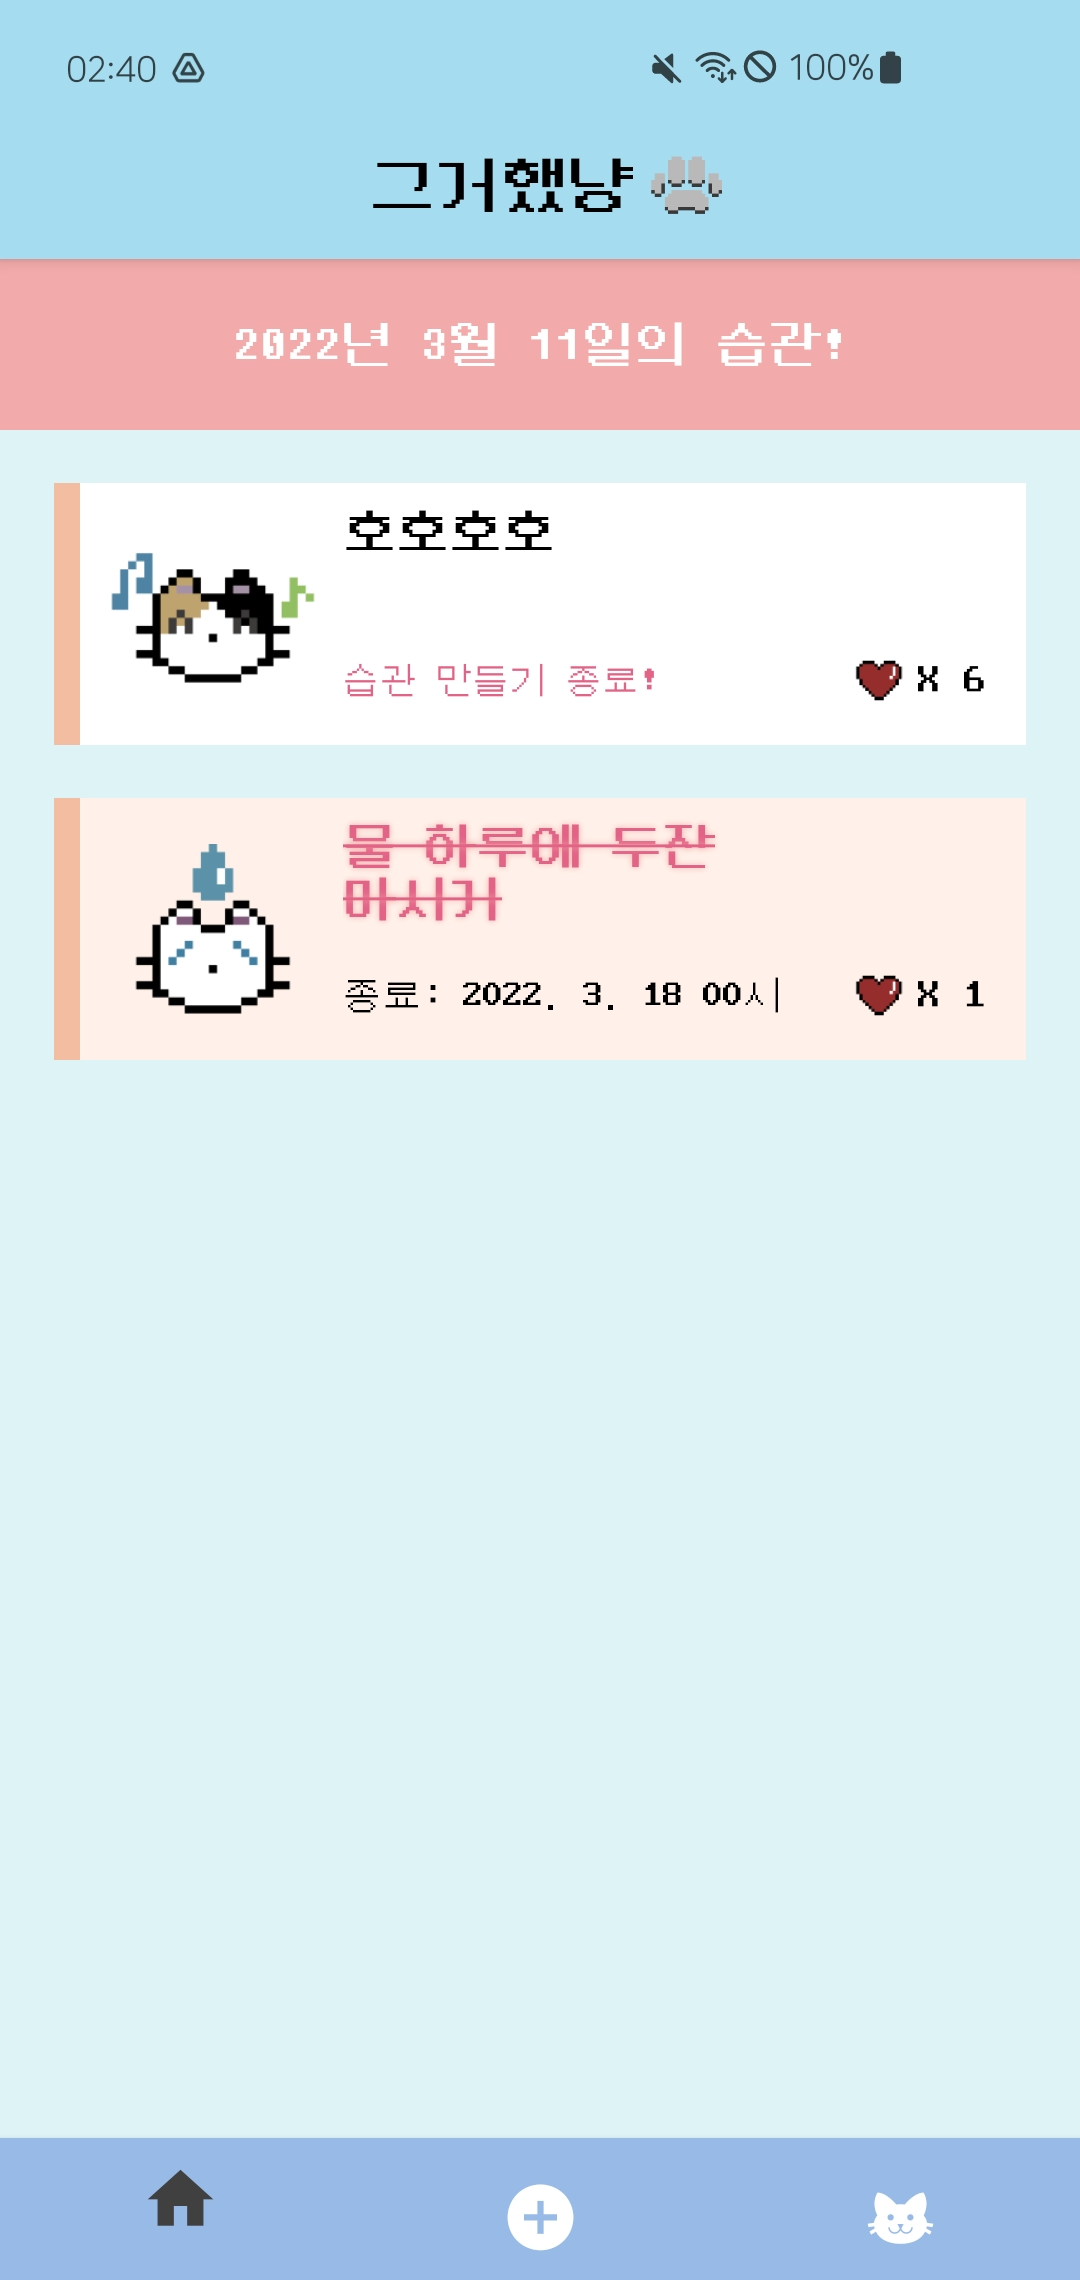
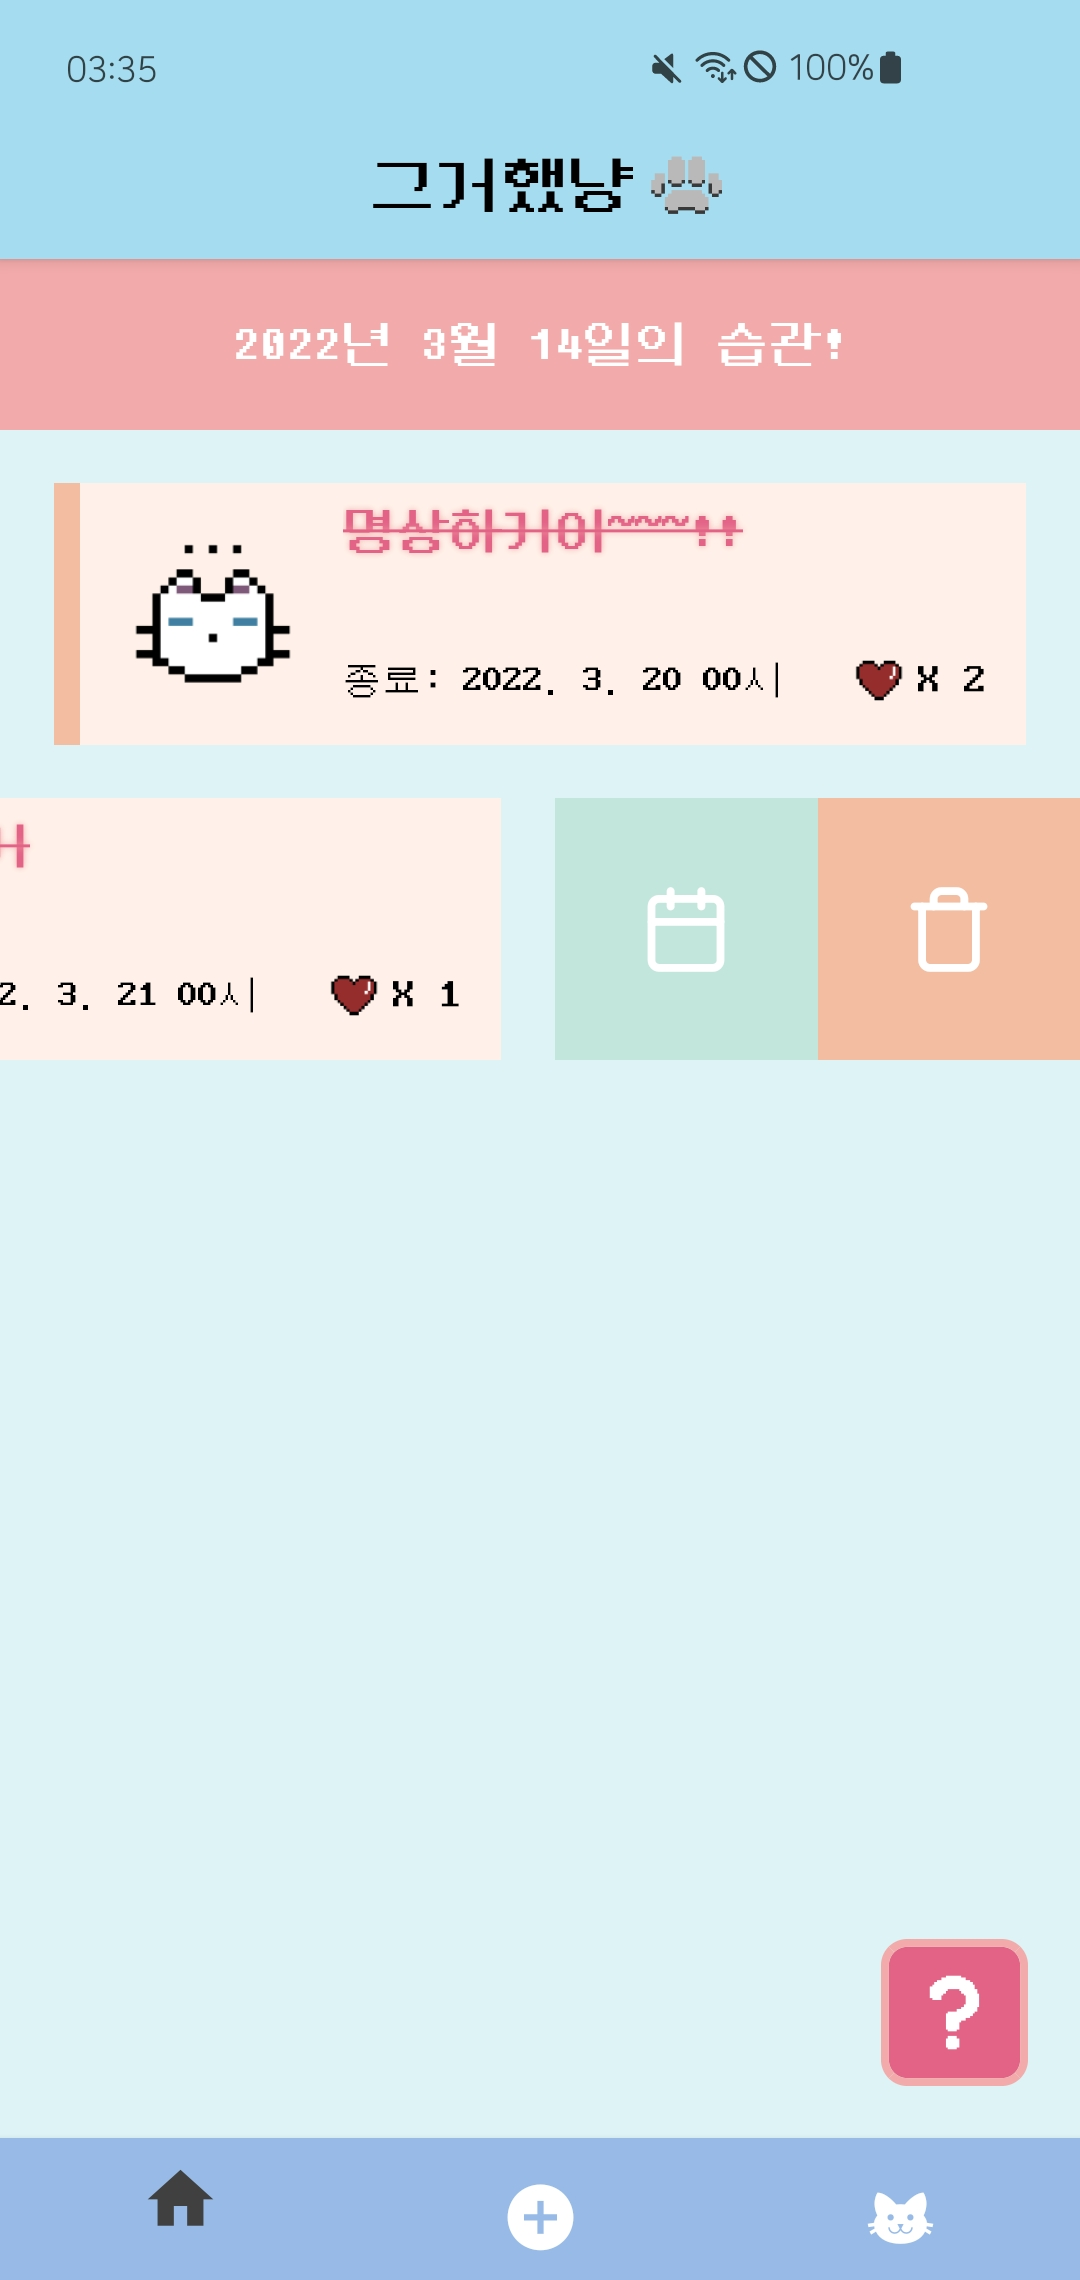
chore: update README.md file

diff --git a/README.md b/README.md
@@ -1,43 +1,38 @@
 # **🐱 그거했냥**
 
-<img src="./readme.asset/thumb.png" width="500px" alt="thumb" />
-<br>
-<br>
+<p align="center">
+<img src="./readme.asset/thumb.png" width="600px" alt="thumb" />
+</p>
+
 마음속으로만 생각한 습관을 1주일만이라도 지켜낸다면 이미 이 습관은 당신의 것!<br>
 "그거했냥?"으로 습관 만들기를 시작해보세요!
-
-<br>
 <br>
 <br>
 
 # **📱 목차**
-
-### 1. [사용 영상](#📽-사용-영상)
-### 2. [동기](#💡-동기)
-### 3. [프로젝트 기간](#🗓-프로젝트-기간)
-### 4. [프로젝트 기간 동안의 고민 일기](#🌤-프로젝트-기간동안의-고민-일기)
-### 5. [기술 스택](#🔨-기술-스택)
-### 6. [실행 방법](#📝-실행-방법)
-### 7. [환경변수 설정 부분](#🔐-환경변수-설정-부분)
-### 8. [기능](#🔬-기능)
-### 9. [기술스택 사용 소감](#🗂-기술스택-사용-소감)
-### 10. [소감](#🎤-소감)
-
-<br>
+1. [사용 영상](#-사용-영상)
+2. [동기](#-동기)
+3. [프로젝트 기간](#-프로젝트-기간)
+4. [프로젝트 기간 동안의 고민 일기](#-프로젝트-기간동안의-고민-일기)
+5. [기술 스택](#-기술-스택)
+6. [실행 방법](#-실행-방법)
+7. [환경변수 설정 부분](#-환경변수-설정-부분)
+8. [기능](#-기능)
+9. [기술스택 사용 소감](#-기술스택-사용-소감)
+10. [소감](#-소감)
 <br>
 <br>
 
 # **📽 사용 영상**
 
-[apk 파일 다운로드](https://exp-shell-app-assets.s3.us-west-1.amazonaws.com/android/%40jisoook/didyoudothat-f223a85abd5d4e269f3a7fb4ec6fa0e3-signed.apk)
-<br>
+[apk 파일 다운로드](https://exp-shell-app-assets.s3.us-west-1.amazonaws.com/android/%40jisoook/didyoudothat-5a151e98f3b04022bd12d638c0ff5fda-signed.apk)
 <br>
 
+<p>
 <img src="./readme.asset/play1.gif" width="200px" alt="play1" />
 <img src="./readme.asset/play2.gif" width="200px" alt="play2" />
+</p>
 
-
-<br>
 <br>
 <br>
 
@@ -46,8 +41,6 @@
 - “오늘은 꼭 일찍 일어나서 운동가야지”, “오늘은 물 800ml 정도는 꼭 마셔야지”
 제가 제일 마음속으로 많이 되뇌이던 결심들이었습니다. 하지만, 생각만 하는 것으로는 잘 지켜지지 않았던 제 경험을 되살려서, 사소한 습관이라도 꾸준히 지키게 해줄 수 있는 마음가짐을 만들어 줄 수 있는 Habit Tracker 어플을 만들어보고 싶었습니다.<br><br>
 - “시작이 반이다”라는 말처럼, 일주일의 시간동안이라도 꾸준하게 본인이 만들어보고 싶었던 습관을 재미있게 만들어볼 수 있게 하고 싶었고, (비록 저만 없지만..) 제가 좋아하는 고양이의 상태를 변화시키는 재미를 느껴보았으면 좋겠습니다.
-
-<br>
 <br>
 <br>
 
@@ -73,7 +66,6 @@
 - 배포 및 테스트 코드 작성
 <br>
 <br>
-<br>
 
 # **🌤 프로젝트 기간동안의 고민 일기**
 <img src="./readme.asset/feeling.jpg" width="1000px" alt="feeling" />
@@ -88,8 +80,6 @@
     - 서버에는 ISO에 맞게 저장을 하는데 클라이언트로 불러올 때 로컬시간에 맞게 분기처리를 어떻게 해야 할지 고민이 되었습니다. 그래서 우선은 서버에 저장되는 데이터는 ISO 기준으로 저장해주고, 화면에서 종료시점에 대한 분기처리를 해줄때, getTimeOffsetZone 메소드를 기준으로 UTC와 로컬 사이의 시간차를 바탕으로 UTC와 로컬타임의 일자를 계산하여 정리하기로 하였습니다. 최대한 라이브러리를 사용하지 않고 구현해보고자 코드가 정돈되지 않았는데, 이 외에도 조금 더 깔끔하게 time zone 코딩에 대해 정리할 수 있는 방법에 대해 생각해봐야 할 것 같습니다.<br><br>
  - **3월 10일 ~ 11일 (3주차 수 ~ 목요일) : 배포에 대한 고민**
     - expo start, expo publish, expo start --no-dev로 실행하였을 때에도 발생하지 않았던 로그인 에러가 발생하였습니다. apk 파일을 통해 직접 설치 후 진행했을 때, 구글 로그인으로 들어갈 수 있었으나, 구글 계정 선택후 다시 로그인 화면이 렌더링 되는 것이 반복되었습니다. 아무리 찾아도 원인에 대해서 파악할 수 없어서 공식문서 및 stackoverflow를 뒤져보았고, 공식문서에 적혀있던 provider/google 내 메소드 명이 잘못 되었고, 다른 메소드를 사용하여야 한다는 것을 발견하였습니다. 또한, expo 사이트 내 환경변수 지정 및 eas cli 설치 등 다양한 접근 방식을 통해 성공적으로 build할 수 있었습니다. 공식문서가 중요한 기준점이 되긴 하지만, 모르는 부분이 있을 때는 다양한 검색 및 접근을 통해 해결해야 한다는 것을 알 수 있었습니다.
-
-<br>
 <br>
 <br>
 
@@ -109,10 +99,8 @@
 - Elastic Beanstalk(배포)
 
 ## **테스트**
-- jest
-- enzyme
-
-<br>
+- 프론트엔드 : jest, enzyme
+- 백엔드 : mocha, chai, supertest
 <br>
 <br>
 
@@ -133,8 +121,6 @@ git clone https://github.com/didYouDoThat/didYouDoThat-Server.git
 npm install
 npm start // npm run dev (development 버전)
 ```
-
-<br>
 <br>
 <br>
 
@@ -158,7 +144,6 @@ SECRET_KEY=<YOUR_JWT_TOKEN_SECRET_KEY>
 ```
 <br>
 <br>
-<br>
 
 # **🔬 기능**
 
@@ -180,6 +165,8 @@ SECRET_KEY=<YOUR_JWT_TOKEN_SECRET_KEY>
 - 아직 종료되지 않은 습관들을 클릭하면(진행했다는 표시) 해당 습관의 제목영역에 빨간 줄이 그어지며, 하단의 하트 개수가 1 증가하고, 이에 따라 해당 습관의 고양이이미지가 변합니다.
 - 반대로 이미 진행했다고 표시한, 종료되지 않은 습관들을 클릭하면 해당 습관이 시행되지 않은 상태로 다시 돌아오게 됩니다.
 - 종료된 습관을 클릭하게 되면, 습관에 대한 결과페이지로 이동하게 됩니다.
+- 습관 컴포넌트를 왼쪽으로 스와이프하게 되면, 현재까지 해당 습관을 언제 이행했는지 체크하거나, 습관을 삭제할 수 있는 버튼이 나타납니다.
+- 화면 오른쪽 밑에 자주 물을 법한 질문을 한번에 모아서 볼 수 있는 화면을 뜨게 하는 버튼이 있습니다.
 
 <br>
 
@@ -210,16 +197,16 @@ SECRET_KEY=<YOUR_JWT_TOKEN_SECRET_KEY>
 <br>
 
 ## **결과 페이지**
+<p>
 <img src="./readme.asset/successPage.jpg" width="200px" alt="success" />
 <img src="./readme.asset/failure.jpg" width="200px" alt="failure" />
+</p>
 
 - 결과 페이지는 각 습관들의 이행정도를 나타내주는 페이지 입니다.
 - 성공 결과페이지는 결과내용과 함께 캡쳐하기 버튼, 돌아가기 버튼이 나타납니다.
     - 캡쳐하기 버튼을 통해 결과페이지를 캡쳐할 수 있으며, 이를 SNS에 공유할 수 있습니다.
 - 실패 결과페이지는 결과내용과 함께 다시 만들기 버튼, 돌아가기 버튼이 나타납니다.
     - 다시 만들기 버튼을 통해 해당 습관의 동일한 제목을 기반으로 새로운 습관을 다시 시작할 수 있습니다.
-
-<br>
 <br>
 <br>
 
@@ -237,13 +224,10 @@ react에서는 route를 기반으로 이동하지만, react-native에서는 scre
 ## React-Query
 해당 라이브러리를 도입하게된 계기는 지난 팀프로젝트 당시, redux와 redux-toolkit(createSlice, redux-Saga)를 통해 비동기 처리를 진행하였었습니다. socket.io를 saga의 event-channel로 다룰 수 있어 비동기처리를 자율적으로 처리하기 편했으나, 생각보다 boiler plate가 많았고, action 함수가 너무 많아져 가독성이 많이 떨어지게 된 점이 아쉬웠습니다. 그래서 이번 프로젝트에 boiler plate가 적고, 전역으로 데이터를 관리할 수 있는 react-query 도입을 결정하게 되었습니다. 무엇보다, 모바일에서 필요한 pagination을 잘 처리할 수 있는 useInfiniteQuery가 있었고, 각 hook 별로 비동기처리에 대한 과정에 대해 가독성 좋게 짧은 양의 코드로도 구현이 가능할 것이라 생각했기 때문에 더더욱 선택하게 되었습니다.<br>
 하지만, 처음 접해보는 비동기 처리 로직으로 로그인 방식 및 react-query로도 관리가 어려웠던 user 정보 전역관리에 대한 고민을 하느라 초반에 방향을 잡는데 어려웠고, 관련 사용법에 대해서 정말 자세하게 익히지 못한 것이 다소 아쉬웠습니다. 이번에 사용한 경험을 통해 다음 사이드 프로젝트 혹은 현업에서 다루게 될 때, react-query의 문법들을 다양하고, 효율적으로 진행해보고 싶습니다.
-
-<br>
 <br>
 <br>
 
 # **🎤 소감**
 이번 프로젝트를 통해 제가 전에 시도해보지 못했던 새로운 것들을 많이 해볼 수 있었습니다. 리액트 네이티브로 프론트엔드 작업을 하면서 처음 보는 부분들이 많았고 코드가 완벽하지는 않지만, 그만큼 배우는 과정에 있어서 흥미를 느꼈던 것 같습니다. 하나하나 책도 보고, 유튜브도 보고, 공식문서를 많이 보면서 풀리지 않았던 부분들을 해결해나가는 과정이 개인적으로 좋은 경험이었고, 프로젝트를 진행하는 원동력이 되었습니다. 앞으로도 이 감각을 계속 유지하여 더 많이 배우고, 더 성장할 수 있는 개발자가 되고 싶습니다.
-<br>
 <br>
 <br>
